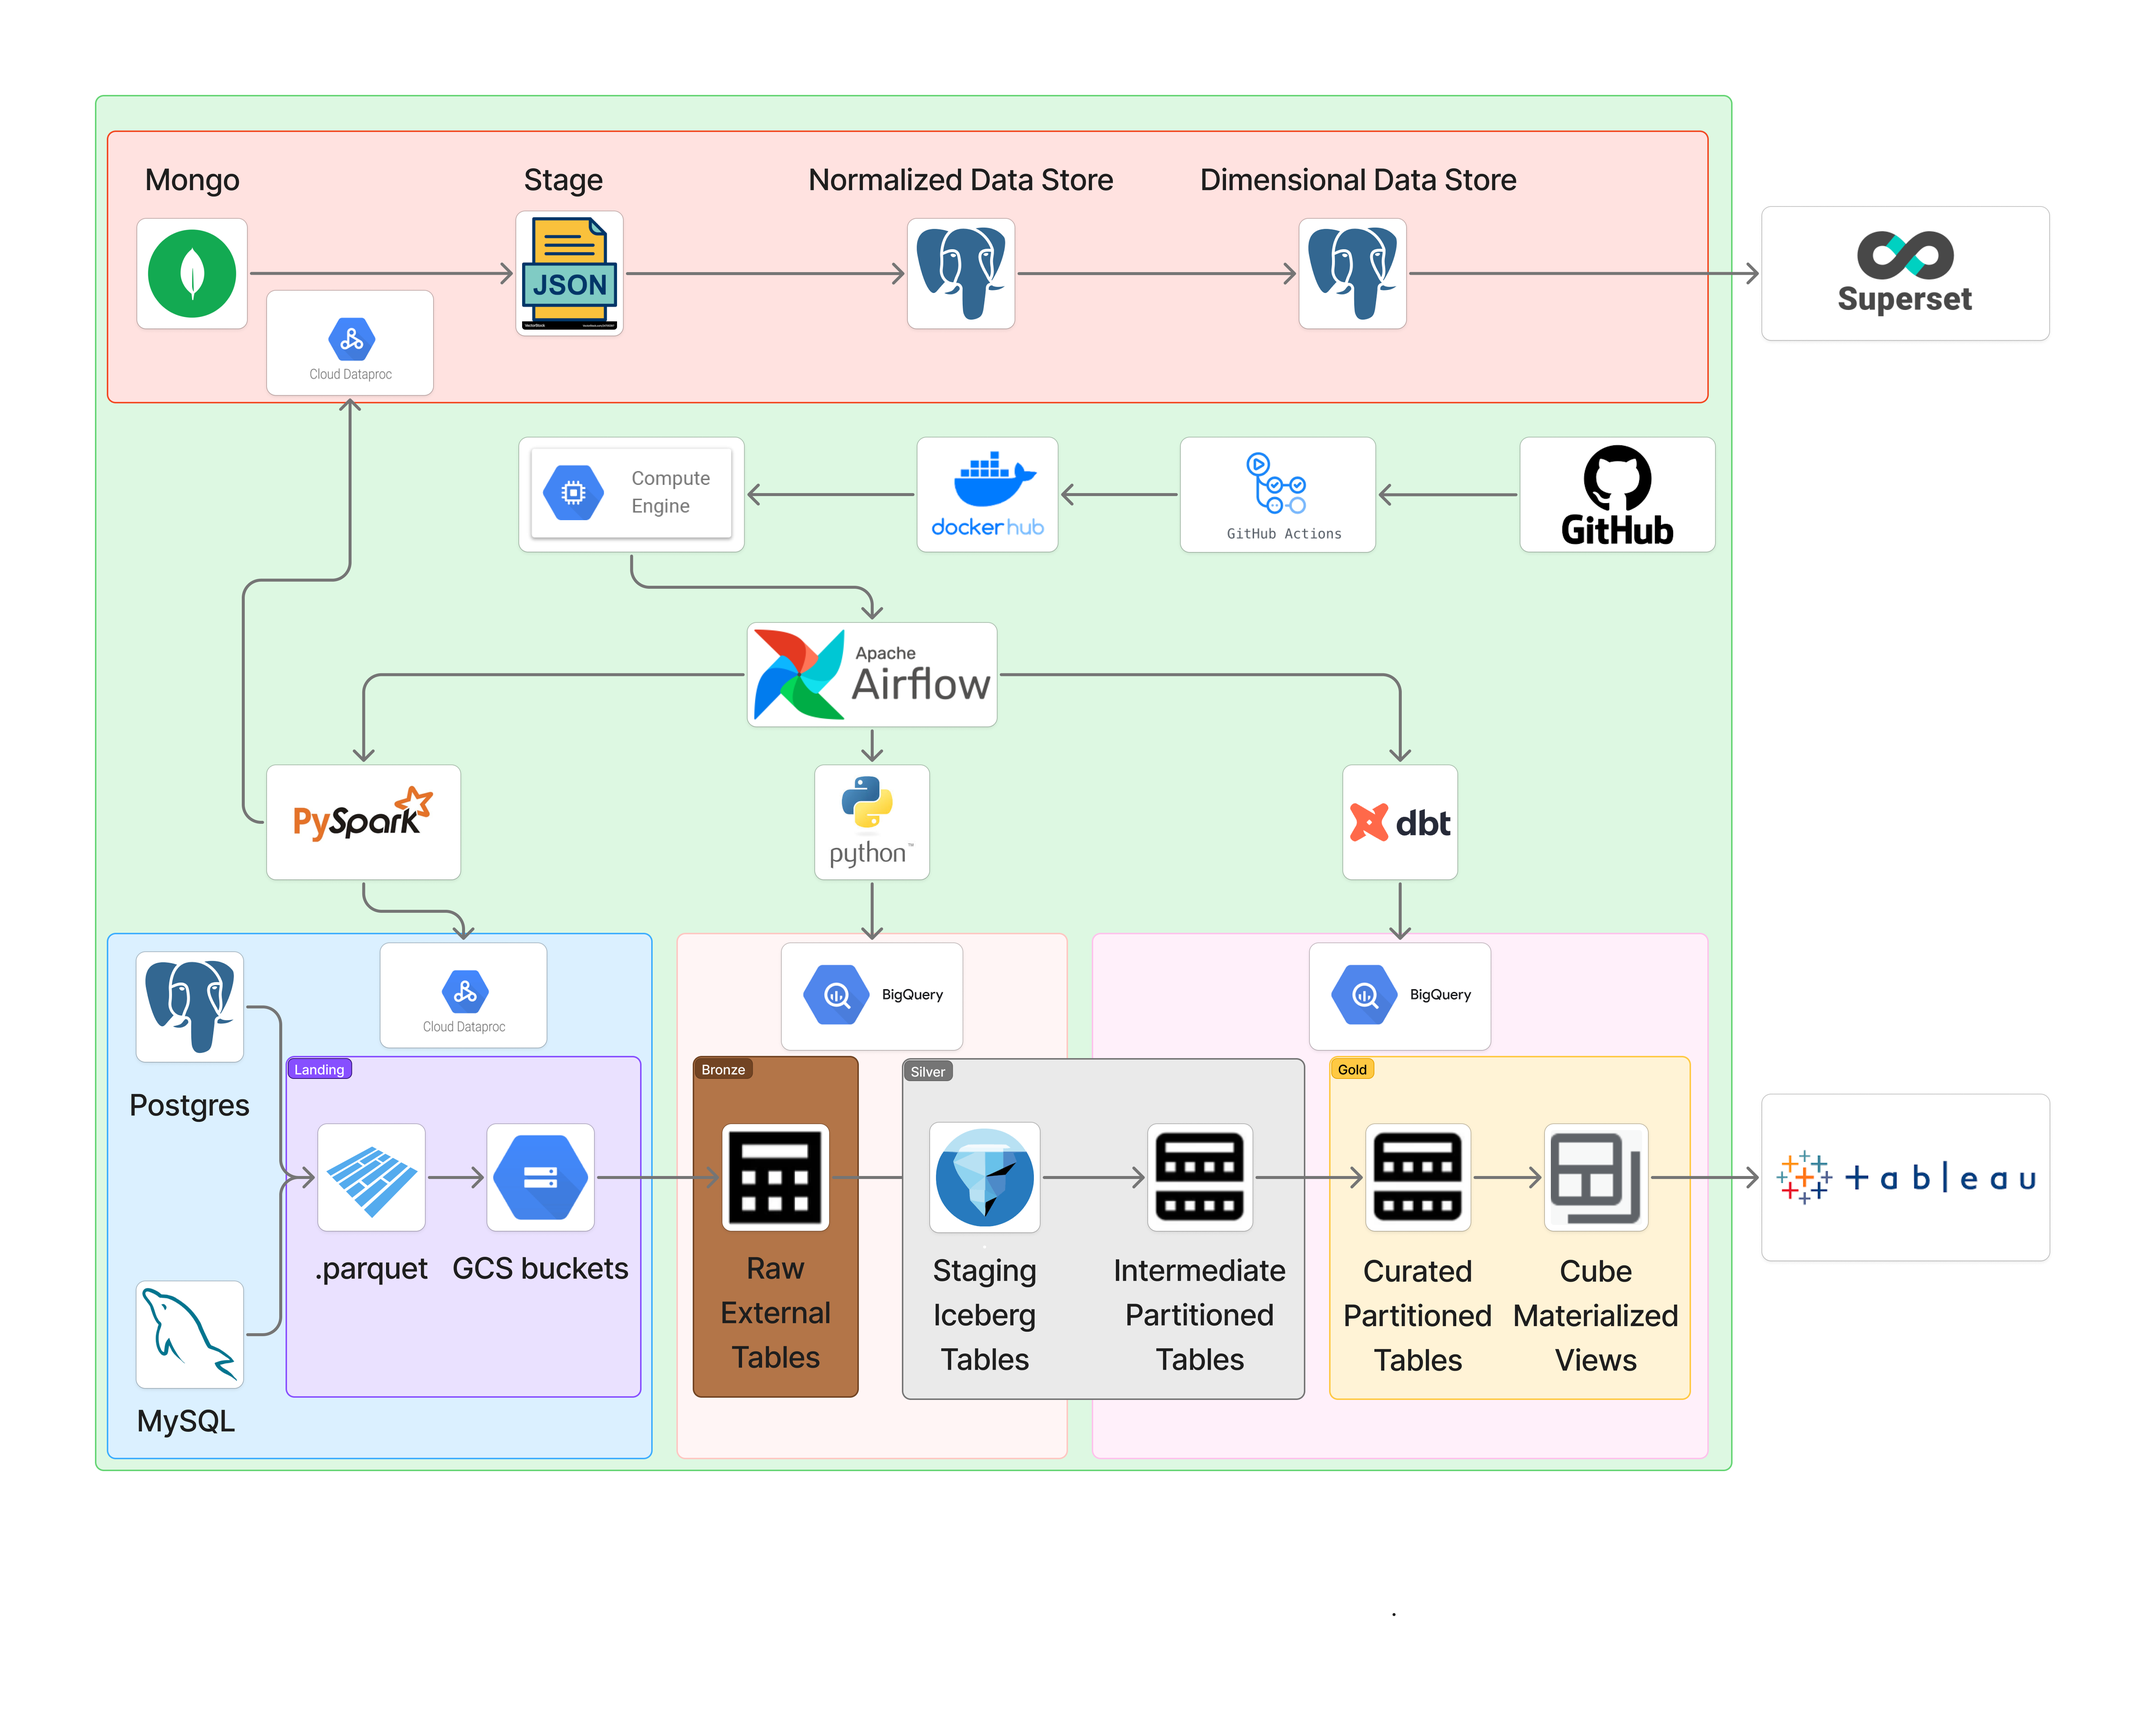
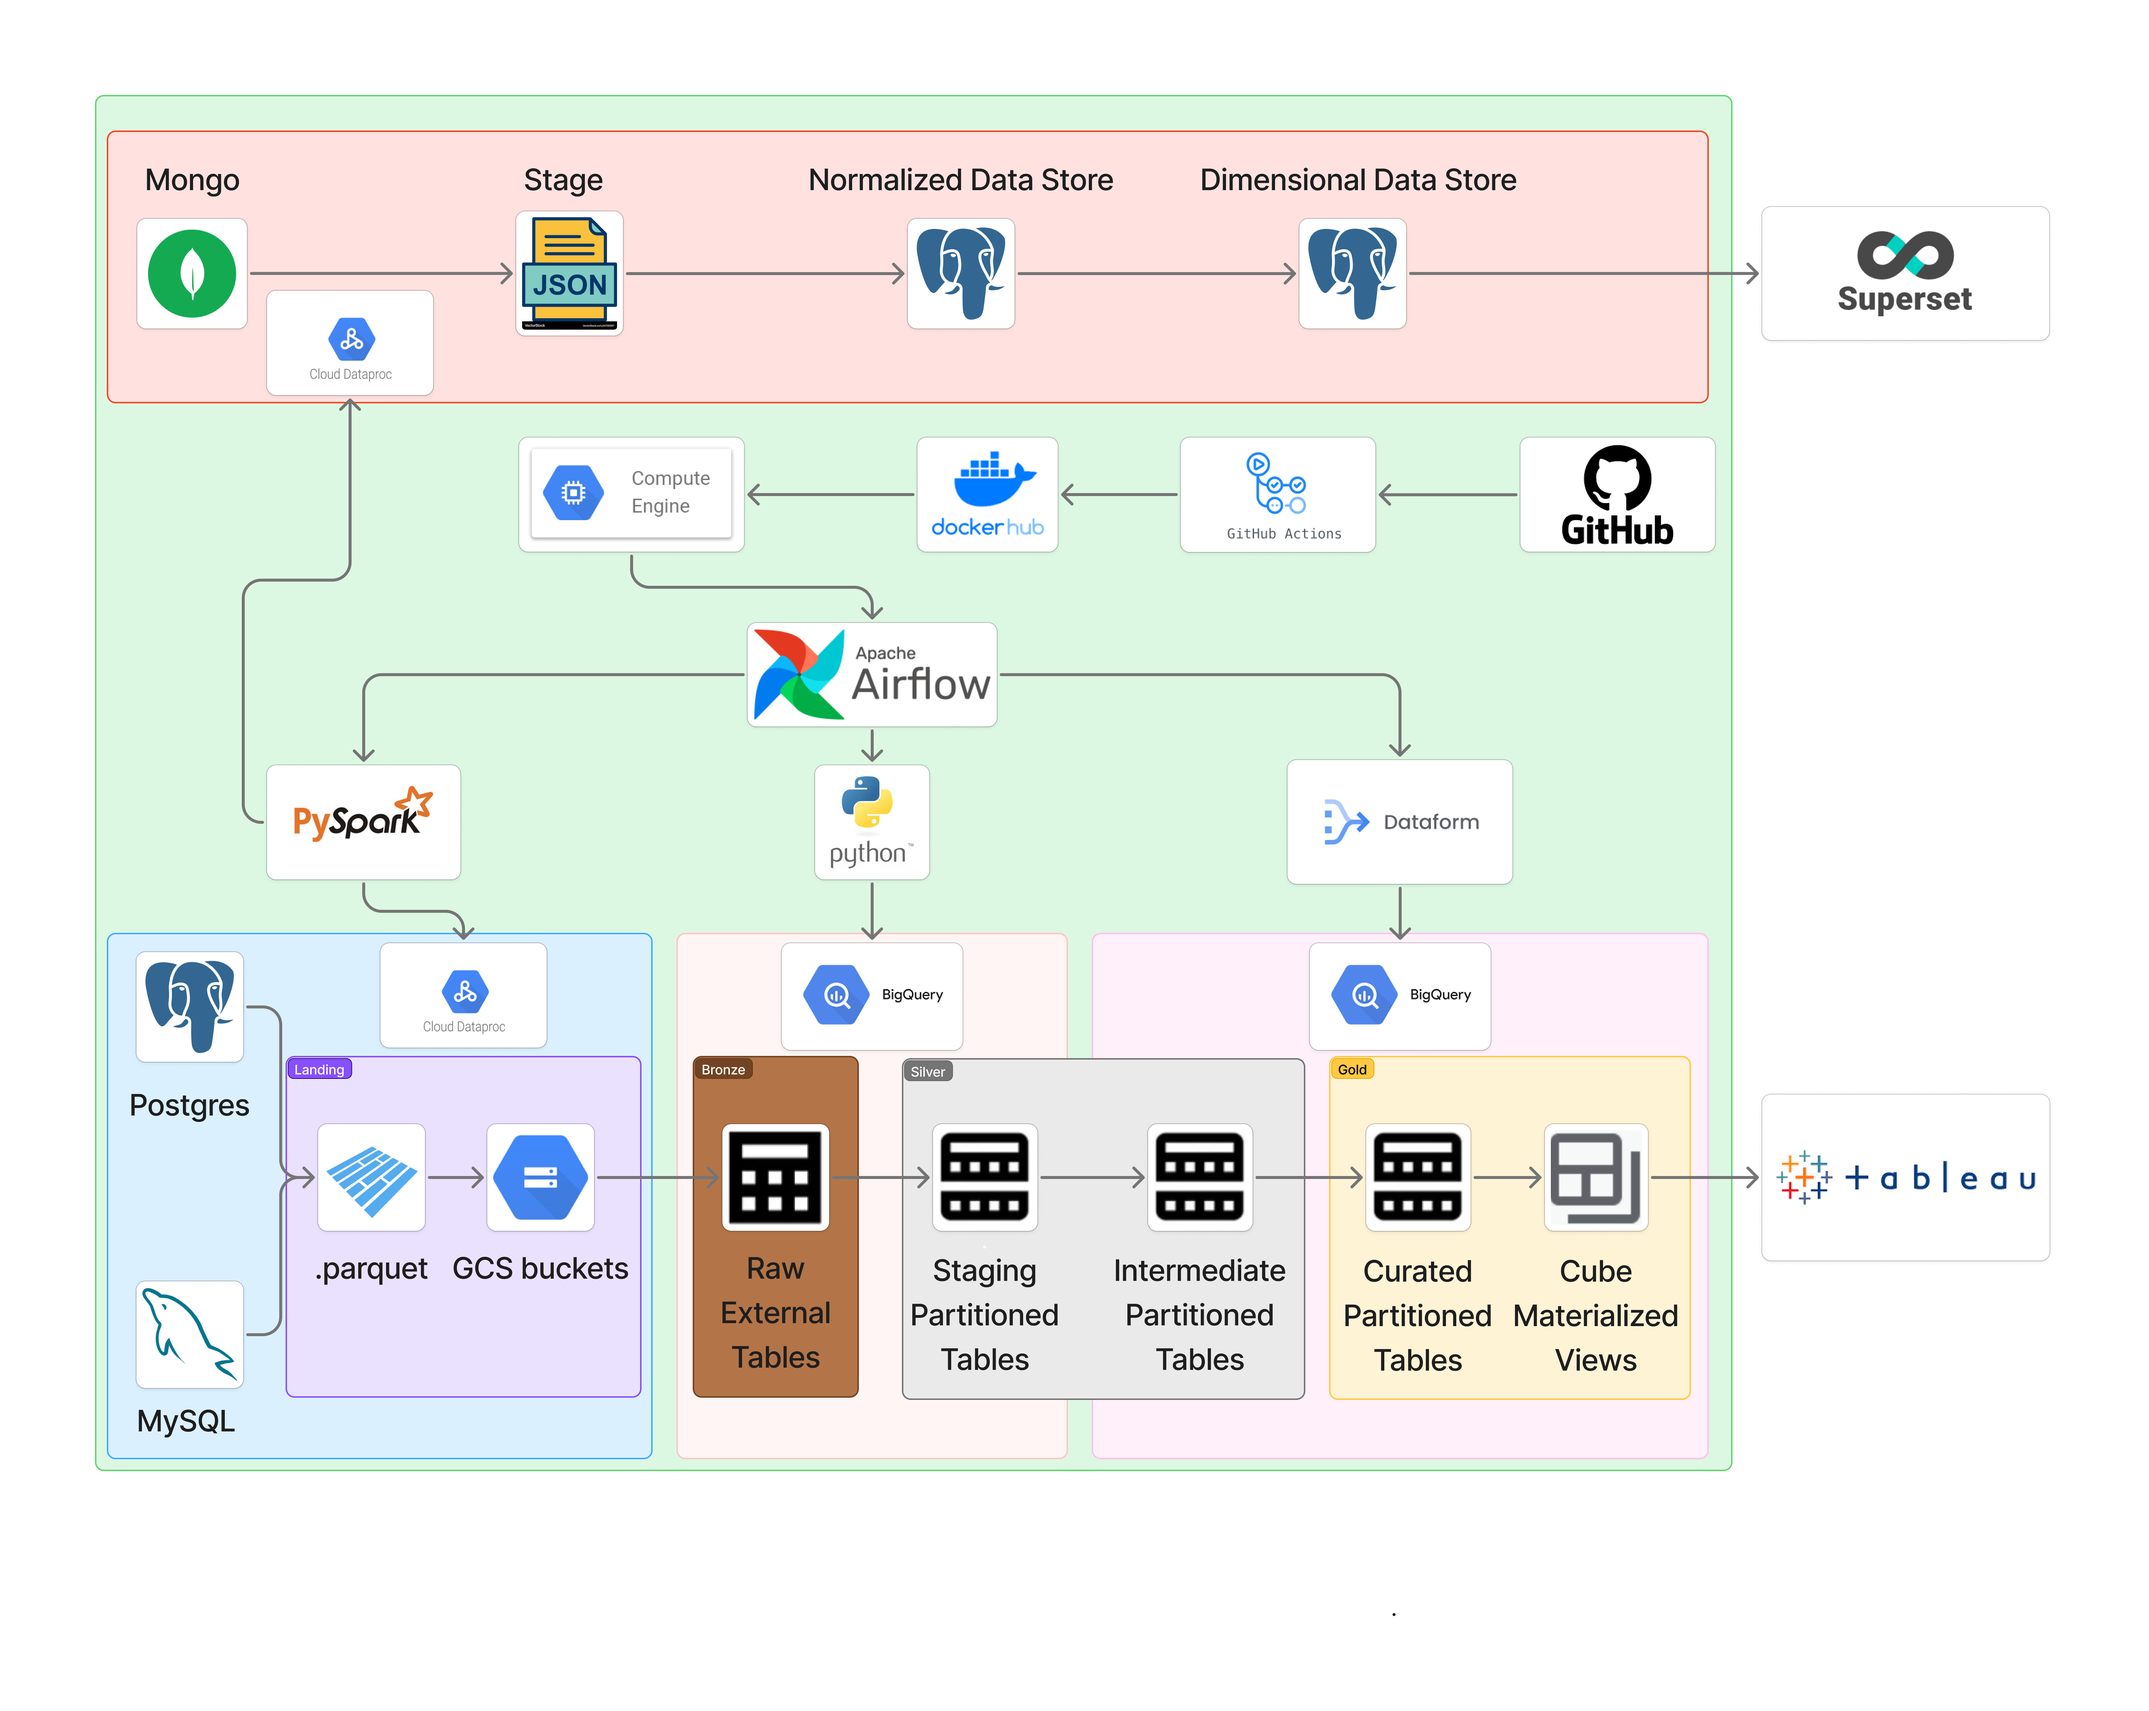
Done for elt airflow (#18)
* update bucket name

* build .zip file for ci/cd

* remove is_nullable

* update submit_job

* update external table

* update external table bugs

* update external table bugs

* fix external tables bugs

* fix external tables bugs

* fix external tables bugs

* update external schema

* update bigquery

* add Partition Columns

* update bigquery

* update uri

* update partitioned table

* update landing to bronze

* done for elt source to silver staging

* black format code

* lint format code

---------

Changed region(s): [[0.5934, 0.4368, 0.7184, 0.5304], [0.4373, 0.6553, 0.4997, 0.7177], [0.4373, 0.7489, 0.4997, 0.7801]]

diff --git a/plugins/builders/elt.py b/plugins/builders/elt.py
@@ -4,8 +4,13 @@ from operators.landing_to_bronze import LandingToBronzeOperator
 
 from builders.base import BaseBuilder
 
+from airflow.models import Variable
+from airflow.operators.python import PythonOperator
+from airflow.providers.google.cloud.hooks.bigquery import BigQueryHook
+
 
 class ELTBuilder(BaseBuilder):
+    # General configs
     @property
     def dag_id(self):
         return "__".join(
@@ -23,7 +28,7 @@ class ELTBuilder(BaseBuilder):
             self.model.source_type,
             self.model.source_schema,
             self.model.table_name,
-            "source_to_silver",
+            "source_to_silver_staging",
         ]
 
     @property
@@ -105,18 +110,13 @@ class ELTBuilder(BaseBuilder):
     # Bronze to Silver staging
     @property
     def silver_staging_table_id(self):
-        """ID of the Silver Staging table, e.g., `project.silver_staging.schema__table`"""
         return f"{self.gcp_project_id}.silver_staging.{self.model.source_schema}__{self.model.table_name}"
 
     @property
     def silver_staging_gcs_uri(self):
-        """GCS path where the Iceberg table will store its data and metadata."""
         return f"gs://{self.gcs_bucket_name}/silver_staging/{self.model.source_schema}/{self.model.table_name}"
 
     def _get_bronze_to_silver_staging_task(self):
-        """
-        Initializes the BronzeToSilverStagingOperator.
-        """
         return BronzeToSilverStagingOperator(
             task_id="bronze_to_silver_staging",
             gcp_conn_id=self.gcp_conn_id,
@@ -127,4 +127,62 @@ class ELTBuilder(BaseBuilder):
             silver_staging_gcs_uri=self.silver_staging_gcs_uri,
             primary_keys=self.model.primary_keys,
             cluster_keys=self.model.clustered_by,
+        )
+
+    def _set_last_extracted_variable(self):
+        if self.is_extracted_full:
+            return None
+
+        if not self.model.clustered_by or len(self.model.clustered_by) == 0:
+            raise ValueError(
+                f"clustered_by must be provided to compute watermark for {self.dag_id}"
+            )
+
+        # Use the max() of clustered_by fields as requested
+        watermark_column = max(self.model.clustered_by)
+
+        def _set_var(**context):
+            hook = BigQueryHook(
+                gcp_conn_id=self.gcp_conn_id, location=self.gcp_location
+            )
+
+            query = f"""
+            SELECT
+              FORMAT_TIMESTAMP('%Y-%m-%d %H:%M:%S',
+                TIMESTAMP_SUB(CAST(MAX(`{watermark_column}`) AS TIMESTAMP), INTERVAL 1 DAY)
+              ) AS watermark
+            FROM `{self.silver_staging_table_id}`
+            """.strip()
+
+            job = hook.insert_job(
+                configuration={
+                    "query": {
+                        "query": query,
+                        "useLegacySql": False,
+                    }
+                },
+                project_id=self.gcp_project_id,
+            )
+            job.result()
+
+            watermark_value = None
+            for row in job:
+                watermark_value = row.get("watermark")
+                break
+
+            if not watermark_value:
+                self.log.warning(
+                    f"No watermark could be computed from {self.silver_staging_table_id}. Skipping last_extraction update."
+                )
+                return
+
+            dag_id = context["dag"].dag_id
+            Variable.set(f"{dag_id}__last_extraction", watermark_value)
+            self.log.info(
+                f"Set {dag_id}__last_extraction = {watermark_value} (MAX({watermark_column}) - 1 day from {self.silver_staging_table_id})"
+            )
+
+        return PythonOperator(
+            task_id="set_last_extracted_variable",
+            python_callable=_set_var,
         )

diff --git a/plugins/operators/landing_to_bronze.py b/plugins/operators/landing_to_bronze.py
@@ -1,5 +1,3 @@
-# vunewbie-data-engineering/plugins/operators/landing_to_bronze.py
-
 import json
 from typing import Sequence, Optional, List, Dict
 
@@ -94,12 +92,9 @@ class LandingToBronzeOperator(BaseOperator):
                 project_id=self.project_id,
             )
             job.result()  # Wait for job to complete
-
             schema = []
-            try:
-                # Try pandas DataFrame approach
-                import pandas as pd
 
+            try:
                 df = job.to_dataframe()
                 if df.empty:
                     self.log.info(
@@ -108,7 +103,6 @@ class LandingToBronzeOperator(BaseOperator):
                     return None
                 schema = df.to_dict("records")
             except (AttributeError, ImportError):
-                # Fallback: iterate through rows
                 for row in job:
                     schema.append(
                         {
@@ -247,11 +241,9 @@ class LandingToBronzeOperator(BaseOperator):
     def execute(self, context):
         hook = BigQueryHook(gcp_conn_id=self.gcp_conn_id, location=self.location)
 
-        # Step 1: Get old schema
-        self.log.info("Step 1: Retrieving old schema from INFORMATION_SCHEMA...")
+        self.log.info("Retrieving old schema from INFORMATION_SCHEMA...")
         old_schema = self._get_old_schema(hook)
 
-        # Step 2: Execute CREATE OR REPLACE EXTERNAL TABLE
         ddl = self._build_create_external_table_ddl()
         self.log.info("Step 2: Executing DDL to create/replace external table...")
         hook.insert_job(
@@ -267,21 +259,17 @@ class LandingToBronzeOperator(BaseOperator):
             f"External table {self.bronze_table_id} created/replaced successfully."
         )
 
-        # Step 3: Get new schema
-        self.log.info("Step 3: Retrieving new schema from INFORMATION_SCHEMA...")
+        self.log.info("Retrieving new schema from INFORMATION_SCHEMA...")
         new_schema = self._get_new_schema(hook)
 
-        # Step 4: Compare schemas and send notification if changed
-        self.log.info("Step 4: Comparing schemas...")
+        self.log.info("Comparing schemas...")
         comparison_result = self._compare_schemas(old_schema, new_schema)
         self.log.info(
             f"Schema comparison result:\n{json.dumps(comparison_result, indent=2)}"
         )
 
-        # Log current schema
         self.log.info(
             f"Current schema for {self.bronze_table_id}:\n{json.dumps(new_schema, indent=2)}"
         )
 
-        # Send notification if schema changed
         self._send_schema_notification(comparison_result, context)

diff --git a/plugins/generators/elt.py b/plugins/generators/elt.py
@@ -99,12 +99,21 @@ class ELTGenerator(BaseGenerator):
             source_to_landing_task = builder._get_source_to_landing_task()
             landing_to_bronze_task = builder._get_landing_to_bronze_task()
             bronze_to_silver_staging_task = builder._get_bronze_to_silver_staging_task()
+            set_last_extracted_variable_task = builder._set_last_extracted_variable()
 
             # Define the task dependency chain
-            (
-                source_to_landing_task
-                >> landing_to_bronze_task
-                >> bronze_to_silver_staging_task
-            )
+            if set_last_extracted_variable_task is not None:
+                (
+                    source_to_landing_task
+                    >> landing_to_bronze_task
+                    >> bronze_to_silver_staging_task
+                    >> set_last_extracted_variable_task
+                )
+            else:
+                (
+                    source_to_landing_task
+                    >> landing_to_bronze_task
+                    >> bronze_to_silver_staging_task
+                )
 
         return (dag_id, dag)

diff --git a/plugins/operators/source_to_landing.py b/plugins/operators/source_to_landing.py
@@ -1,5 +1,3 @@
-# vunewbie-data-engineering/plugins/operators/source_to_landing.py
-
 from typing import Sequence
 
 from airflow.models.baseoperator import BaseOperator
@@ -171,9 +169,10 @@ class SourceToLandingOperator(BaseOperator):
 
         jdbc_info = self._get_jdbc_connection_info()
         job = self._build_dataproc_job(query=query, jdbc_info=jdbc_info)
-
         dataproc_hook = DataprocHook(gcp_conn_id=self.gcp_conn_id)
+
         self.log.info("Submitting Dataproc job to existing cluster...")
+
         submitted_job = dataproc_hook.submit_job(
             project_id=self.project_id,
             region=self.region,

diff --git a/plugins/operators/bronze_to_silver_staging.py b/plugins/operators/bronze_to_silver_staging.py
@@ -1,5 +1,3 @@
-# vunewbie-data-engineering/plugins/operators/bronze_to_silver_staging.py
-
 from typing import Sequence
 
 from airflow.models.baseoperator import BaseOperator
